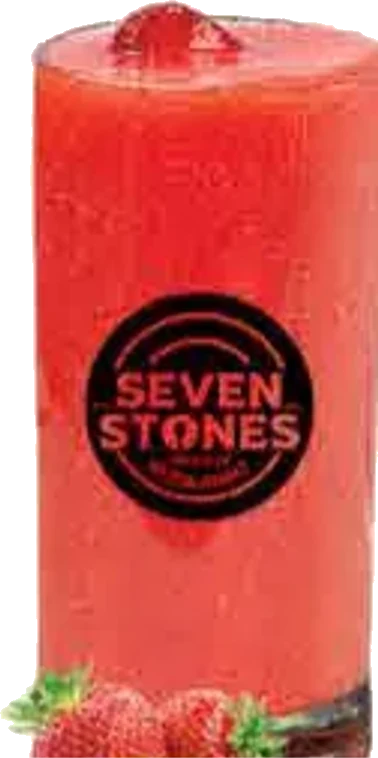
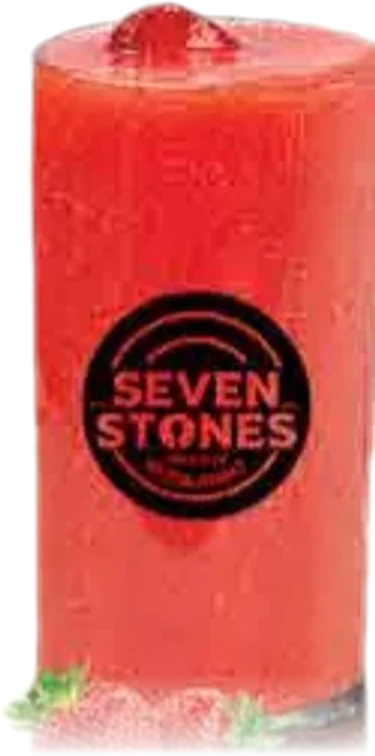
Strawberry juice: remove glow, soft edges like other glasses

diff --git a/src/styles/home.css b/src/styles/home.css
@@ -683,8 +683,6 @@
   left: 6%;
   width: 28%;
   rotate: -9deg;
-  filter: drop-shadow(0 0 8px rgba(255, 236, 140, 0.95)) drop-shadow(0 0 24px rgba(255, 210, 70, 0.85))
-    drop-shadow(0 30px 30px rgba(27, 26, 24, 0.35));
   animation: bob 6.5s -1s ease-in-out infinite;
 }
 .juice__g--2 {

diff --git a/src/data/photoSizes.js b/src/data/photoSizes.js
@@ -284,7 +284,7 @@ export const photoSizes = {
   253: [258, 160],
   251: [258, 169],
   292: [471, 258],
-  'cut/juice-strawberry': [378, 758],
+  'cut/juice-strawberry': [375, 756],
   'cut/mojito': [227, 492],
   'cut/juice-mango': [348, 747],
   'cut/burger': [857, 708],
